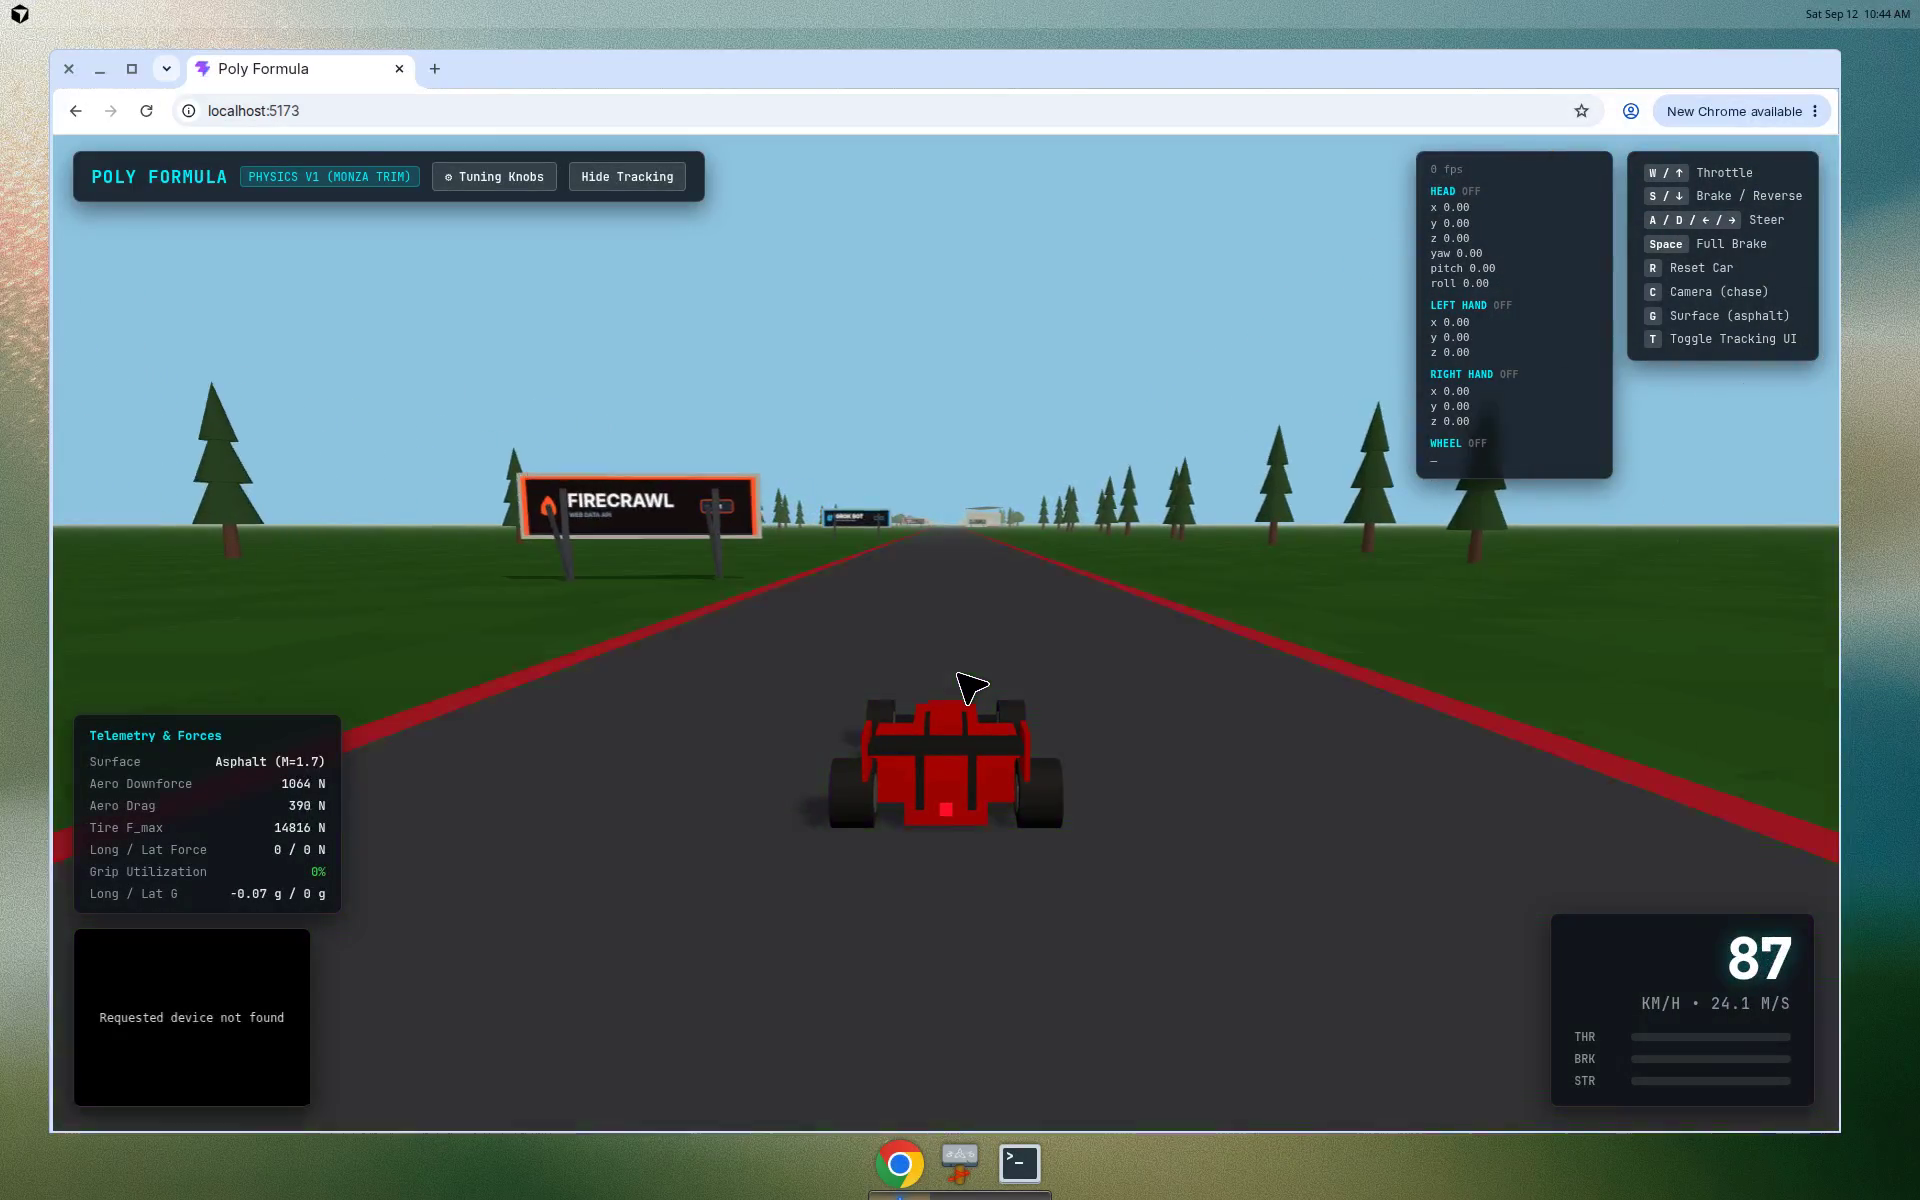
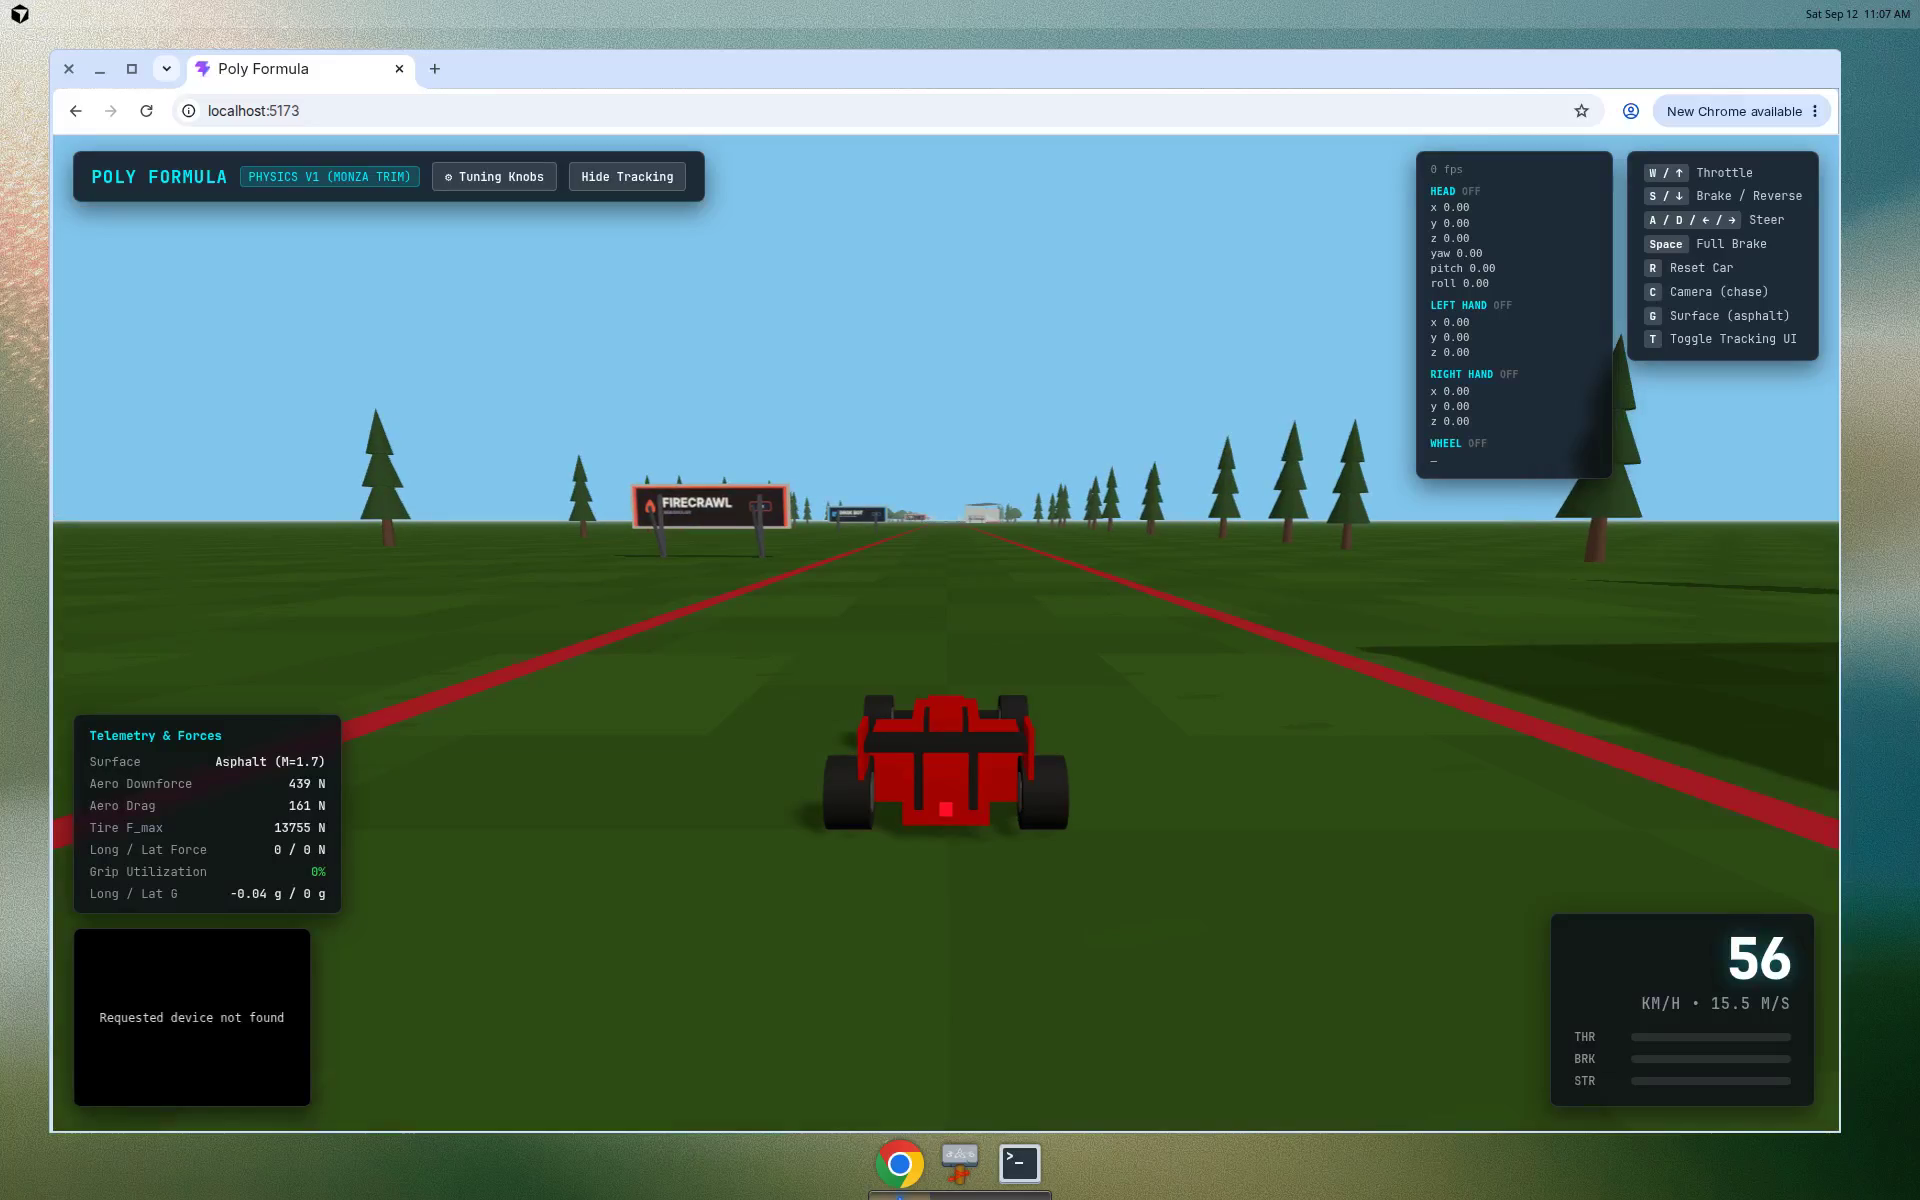
Apply Italy midday palette: soft Italian blue sky, heat haze, warm olive grass, muted blacks

diff --git a/src/landscape/palette.ts b/src/landscape/palette.ts
@@ -1,32 +1,34 @@
 import * as THREE from 'three'
 
 /**
- * Monza Park low-poly / PS1 visual palette.
+ * Monza Park low-poly / PS1 visual palette: Italy midday heat.
+ * Soft, warm, approachable: clear Italian blue sky, gentle heat haze,
+ * warm olive grass, and muted (not harsh) dark tones. No stark neon or pitch blacks.
  * Uses Lambert / vertex coloring; no PBR roughness/metalness overhead.
  */
 export const LANDSCAPE_COLORS = {
-  sky: 0x8ec4e0, // #8EC4E0 - Pale Mediterranean sky
-  fog: 0xb4c4b8, // #B4C4B8 - Morning parkland mist
-  grass: 0x4f7a3e, // #4F7A3E - Monza Royal Park grass
-  grassDark: 0x426934, // Subtle darker grass variation
-  grassLight: 0x5a8a47, // Subtle lighter grass highlight
-  canopy: 0x2d4a28, // #2D4A28 - Italian cypress & pine canopy
-  canopyOak: 0x34542d, // Broadleaf oak canopy
-  trunk: 0x5c4033, // #5C4033 - Tree wood trunk
-  runoffAsphalt: 0x3d3d42, // #3D3D42 - Runoff asphalt apron
-  gravel: 0xc2b08a, // #C2B08A - Gravel trap bed
-  grandstand: 0xe6e2d8, // #E6E2D8 - Concrete grandstand structure
-  grandstandRedBand: 0xb81c2c, // #B81C2C - Italian racing red accent band
-  grandstandRoof: 0x50555c, // Slate grey corrugated roof
-  tires: 0x1c1c1c, // #1C1C1C - Rubber tire barrier
-  tiresWhite: 0xe0ded8, // Painted white tire barrier stripe
-  tireBelt: 0x2f2f33, // Outer belt strapping
-  billboardField: 0xf2efe8, // #F2EFE8 - Billboard display canvas
-  billboardFrame: 0xd8d4cc, // #D8D4CC - Galvanized perimeter frame
-  billboardPosts: 0x4a4d52, // Steel support pylons
-  trackAsphalt: 0x242830, // Main circuit asphalt ribbon
-  kerbRed: 0xb81c2c, // Monza kerb red
-  kerbWhite: 0xf2efe8, // Monza kerb white
+  sky: 0x82c5eb, // #82C5EB - Clear soft Italian midday blue sky
+  fog: 0xb8d4e2, // #B8D4E2 - Soft summer heat haze
+  grass: 0x5b7e3e, // #5B7E3E - Warm olive Monza park grass
+  grassDark: 0x4e6e34, // Subtle darker olive variation
+  grassLight: 0x6a8f48, // Sunlit golden-olive grass highlight
+  canopy: 0x324f2a, // #324F2A - Italian cypress & Lombardy poplar canopy
+  canopyOak: 0x3a5a32, // #3A5A32 - Broadleaf stone oak canopy
+  trunk: 0x634839, // #634839 - Warm sunbaked tree trunk
+  runoffAsphalt: 0x44454b, // #44454B - Warm grey runoff asphalt apron
+  gravel: 0xc8b892, // #C8B892 - Warm Italian golden gravel trap bed
+  grandstand: 0xede8dc, // #EDE8DC - Sunlit warm cream concrete grandstand
+  grandstandRedBand: 0xba202e, // #BA202E - Italian racing red accent band
+  grandstandRoof: 0x5c626a, // #5C626A - Muted slate grey roof
+  tires: 0x2b2b30, // #2B2B30 - Muted charcoal rubber tires (no harsh black)
+  tiresWhite: 0xe5e2db, // #E5E2DB - Soft warm white tire stripe
+  tireBelt: 0x3e3e44, // #3E3E44 - Muted belt strapping
+  billboardField: 0xf4f1ea, // #F4F1EA - Warm off-white billboard canvas
+  billboardFrame: 0xdcd8d0, // #DCD8D0 - Warm galvanized aluminum frame
+  billboardPosts: 0x545860, // #545860 - Warm muted steel support pylons
+  trackAsphalt: 0x3a3e46, // #3A3E46 - Warm grey ribbon placeholder
+  kerbRed: 0xba202e, // Monza kerb red
+  kerbWhite: 0xf4f1ea, // Monza kerb soft white
 } as const
 
 /**

diff --git a/src/landscape/textures/sponsors.ts b/src/landscape/textures/sponsors.ts
@@ -18,90 +18,90 @@ const BRAND_THEMES: Record<SponsorBrand, BrandTheme> = {
   'Grok Bot': {
     name: 'GROK BOT',
     subtitle: 'REAL-TIME REASONING',
-    bg: '#0c0f14',
-    fg: '#ffffff',
-    accent: '#38bdf8',
+    bg: '#1c222b',
+    fg: '#f5f2eb',
+    accent: '#42b0e6',
     badgeText: 'AI',
     iconType: 'grok',
   },
   Firecrawl: {
     name: 'FIRECRAWL',
     subtitle: 'WEB DATA API',
-    bg: '#140c0c',
-    fg: '#ffffff',
-    accent: '#ff5722',
+    bg: '#241c1c',
+    fg: '#f5f2eb',
+    accent: '#e65842',
     badgeText: 'API',
     iconType: 'fire',
   },
   Exa: {
     name: 'EXA',
     subtitle: 'SEARCH ENGINE FOR AI',
-    bg: '#0a1017',
-    fg: '#ffffff',
-    accent: '#60a5fa',
+    bg: '#1b222c',
+    fg: '#f5f2eb',
+    accent: '#5a9de6',
     badgeText: 'NEURAL',
     iconType: 'neural',
   },
   Wonder: {
     name: 'WONDER',
     subtitle: '3D WORLD GENERATION',
-    bg: '#120d1a',
-    fg: '#ffffff',
-    accent: '#c084fc',
+    bg: '#221c2a',
+    fg: '#f5f2eb',
+    accent: '#a878e6',
     badgeText: 'GEN-AI',
     iconType: 'star',
   },
   Daytona: {
     name: 'DAYTONA',
     subtitle: 'DEV ENVIRONMENT ENGINE',
-    bg: '#0f1412',
-    fg: '#ffffff',
-    accent: '#22c55e',
+    bg: '#1c241e',
+    fg: '#f5f2eb',
+    accent: '#34bc86',
     badgeText: 'SPEED',
     iconType: 'speed',
   },
   Convex: {
     name: 'CONVEX',
     subtitle: 'REACTIVE BACKEND',
-    bg: '#16120a',
-    fg: '#ffffff',
-    accent: '#f59e0b',
+    bg: '#242018',
+    fg: '#f5f2eb',
+    accent: '#e69018',
     badgeText: 'SYNC',
     iconType: 'hex',
   },
   'Wispr Flow': {
     name: 'WISPR FLOW',
     subtitle: 'VOICE INTELLIGENCE',
-    bg: '#0b1317',
-    fg: '#ffffff',
-    accent: '#2dd4bf',
+    bg: '#1c2528',
+    fg: '#f5f2eb',
+    accent: '#36c0ad',
     badgeText: 'VOICE',
     iconType: 'wave',
   },
   'Fal.ai': {
     name: 'fal.ai',
     subtitle: 'LIGHTNING MEDIA INFERENCE',
-    bg: '#140b17',
-    fg: '#ffffff',
-    accent: '#f43f5e',
+    bg: '#241a22',
+    fg: '#f5f2eb',
+    accent: '#e64a6e',
     badgeText: 'FAST',
     iconType: 'lightning',
   },
   'x.ai': {
     name: 'x.ai',
     subtitle: 'UNDERSTAND THE UNIVERSE',
-    bg: '#090a0f',
-    fg: '#ffffff',
-    accent: '#e2e8f0',
+    bg: '#1c1e24',
+    fg: '#f5f2eb',
+    accent: '#d8dee6',
     badgeText: 'FRONTIER',
     iconType: 'x',
   },
   Render: {
     name: 'RENDER',
     subtitle: 'CLOUD APPLICATION HOSTING',
-    bg: '#0b111a',
-    fg: '#ffffff',
-    accent: '#3b82f6',
+    bg: '#1c222e',
+    fg: '#f5f2eb',
+    accent: '#4288e6',
     badgeText: 'CLOUD',
     iconType: 'cube',
   },

diff --git a/src/landscape/landscape.test.ts b/src/landscape/landscape.test.ts
@@ -19,18 +19,18 @@ import {
 } from './index.ts'
 
 test('Visual palette contains all required PS1 park circuit colors', () => {
-  assert.equal(LANDSCAPE_COLORS.sky, 0x8ec4e0, 'Sky color should be #8EC4E0')
-  assert.equal(LANDSCAPE_COLORS.fog, 0xb4c4b8, 'Fog color should be #B4C4B8')
-  assert.equal(LANDSCAPE_COLORS.grass, 0x4f7a3e, 'Grass color should be #4F7A3E')
-  assert.equal(LANDSCAPE_COLORS.canopy, 0x2d4a28, 'Canopy color should be #2D4A28')
-  assert.equal(LANDSCAPE_COLORS.trunk, 0x5c4033, 'Trunk color should be #5C4033')
-  assert.equal(LANDSCAPE_COLORS.runoffAsphalt, 0x3d3d42, 'Runoff color should be #3D3D42')
-  assert.equal(LANDSCAPE_COLORS.gravel, 0xc2b08a, 'Gravel color should be #C2B08A')
-  assert.equal(LANDSCAPE_COLORS.grandstand, 0xe6e2d8, 'Grandstand body should be #E6E2D8')
-  assert.equal(LANDSCAPE_COLORS.grandstandRedBand, 0xb81c2c, 'Italian red band should be #B81C2C')
-  assert.equal(LANDSCAPE_COLORS.tires, 0x1c1c1c, 'Tires color should be #1C1C1C')
-  assert.equal(LANDSCAPE_COLORS.billboardField, 0xf2efe8, 'Billboard field should be #F2EFE8')
-  assert.equal(LANDSCAPE_COLORS.billboardFrame, 0xd8d4cc, 'Billboard frame should be #D8D4CC')
+  assert.equal(LANDSCAPE_COLORS.sky, 0x82c5eb, 'Sky color should be soft Italian midday blue #82C5EB')
+  assert.equal(LANDSCAPE_COLORS.fog, 0xb8d4e2, 'Fog color should be soft summer heat haze #B8D4E2')
+  assert.equal(LANDSCAPE_COLORS.grass, 0x5b7e3e, 'Grass color should be warm olive #5B7E3E')
+  assert.equal(LANDSCAPE_COLORS.canopy, 0x324f2a, 'Canopy color should be #324F2A')
+  assert.equal(LANDSCAPE_COLORS.trunk, 0x634839, 'Trunk color should be #634839')
+  assert.equal(LANDSCAPE_COLORS.runoffAsphalt, 0x44454b, 'Runoff color should be #44454B')
+  assert.equal(LANDSCAPE_COLORS.gravel, 0xc8b892, 'Gravel color should be #C8B892')
+  assert.equal(LANDSCAPE_COLORS.grandstand, 0xede8dc, 'Grandstand body should be #EDE8DC')
+  assert.equal(LANDSCAPE_COLORS.grandstandRedBand, 0xba202e, 'Italian red band should be #BA202E')
+  assert.equal(LANDSCAPE_COLORS.tires, 0x2b2b30, 'Tires color should be muted charcoal #2B2B30')
+  assert.equal(LANDSCAPE_COLORS.billboardField, 0xf4f1ea, 'Billboard field should be #F4F1EA')
+  assert.equal(LANDSCAPE_COLORS.billboardFrame, 0xdcd8d0, 'Billboard frame should be #DCD8D0')
 })
 
 test('All 10 sponsor brands are supported and generate valid textures', () => {

diff --git a/src/landscape/index.ts b/src/landscape/index.ts
@@ -57,19 +57,19 @@ export function createLandscape(
 
   const disposables: Array<{ dispose: () => void }> = []
 
-  // 1. Scene Fog & Sky Atmosphere
+  // 1. Scene Fog & Sky Atmosphere (Italy midday: clear soft blue sky, gentle summer heat haze)
   if (enableFog) {
     scene.background = new THREE.Color(LANDSCAPE_COLORS.sky)
-    scene.fog = new THREE.FogExp2(LANDSCAPE_COLORS.fog, 0.0014)
+    scene.fog = new THREE.FogExp2(LANDSCAPE_COLORS.fog, 0.0011)
   }
 
-  // 2. Lighting (Warm Italian afternoon sunlight & ambient fill)
+  // 2. Lighting (Warm Italian midday sunlight & soft sky ambient fill)
   if (enableLighting) {
-    const ambientLight = new THREE.AmbientLight(0xffffff, 0.95)
+    const ambientLight = new THREE.AmbientLight(0xfff6ec, 1.05)
     ambientLight.name = 'Landscape_Ambient'
     scene.add(ambientLight)
 
-    const sunLight = new THREE.DirectionalLight(0xfff8e8, 1.65)
+    const sunLight = new THREE.DirectionalLight(0xfffaee, 1.75)
     sunLight.name = 'Landscape_Sun'
     sunLight.position.set(60, 100, 70)
     sunLight.castShadow = true

diff --git a/src/landscape/models/terrain.ts b/src/landscape/models/terrain.ts
@@ -35,20 +35,20 @@ export function createTerrain(
     const ctx = canvas.getContext('2d')
 
     if (ctx) {
-      // Base lush park grass (#4F7A3E)
-      ctx.fillStyle = '#4f7a3e'
+      // Base lush warm olive park grass (#5B7E3E)
+      ctx.fillStyle = '#5b7e3e'
       ctx.fillRect(0, 0, 512, 512)
 
-      // Subtle tonal variations for low-poly / PS1 grass feel
-      ctx.fillStyle = '#466e37'
+      // Subtle warm olive tonal variations for low-poly / PS1 grass feel
+      ctx.fillStyle = '#4e6e34'
       ctx.fillRect(0, 0, 256, 256)
       ctx.fillRect(256, 256, 256, 256)
 
-      ctx.fillStyle = '#558243'
+      ctx.fillStyle = '#668b44'
       ctx.fillRect(128, 128, 256, 256)
 
-      // Fine stippling pattern
-      ctx.fillStyle = '#436934'
+      // Fine olive-gold stippling pattern
+      ctx.fillStyle = '#547738'
       for (let i = 0; i < 60; i++) {
         const rx = (i * 37) % 512
         const ry = (i * 73) % 512
